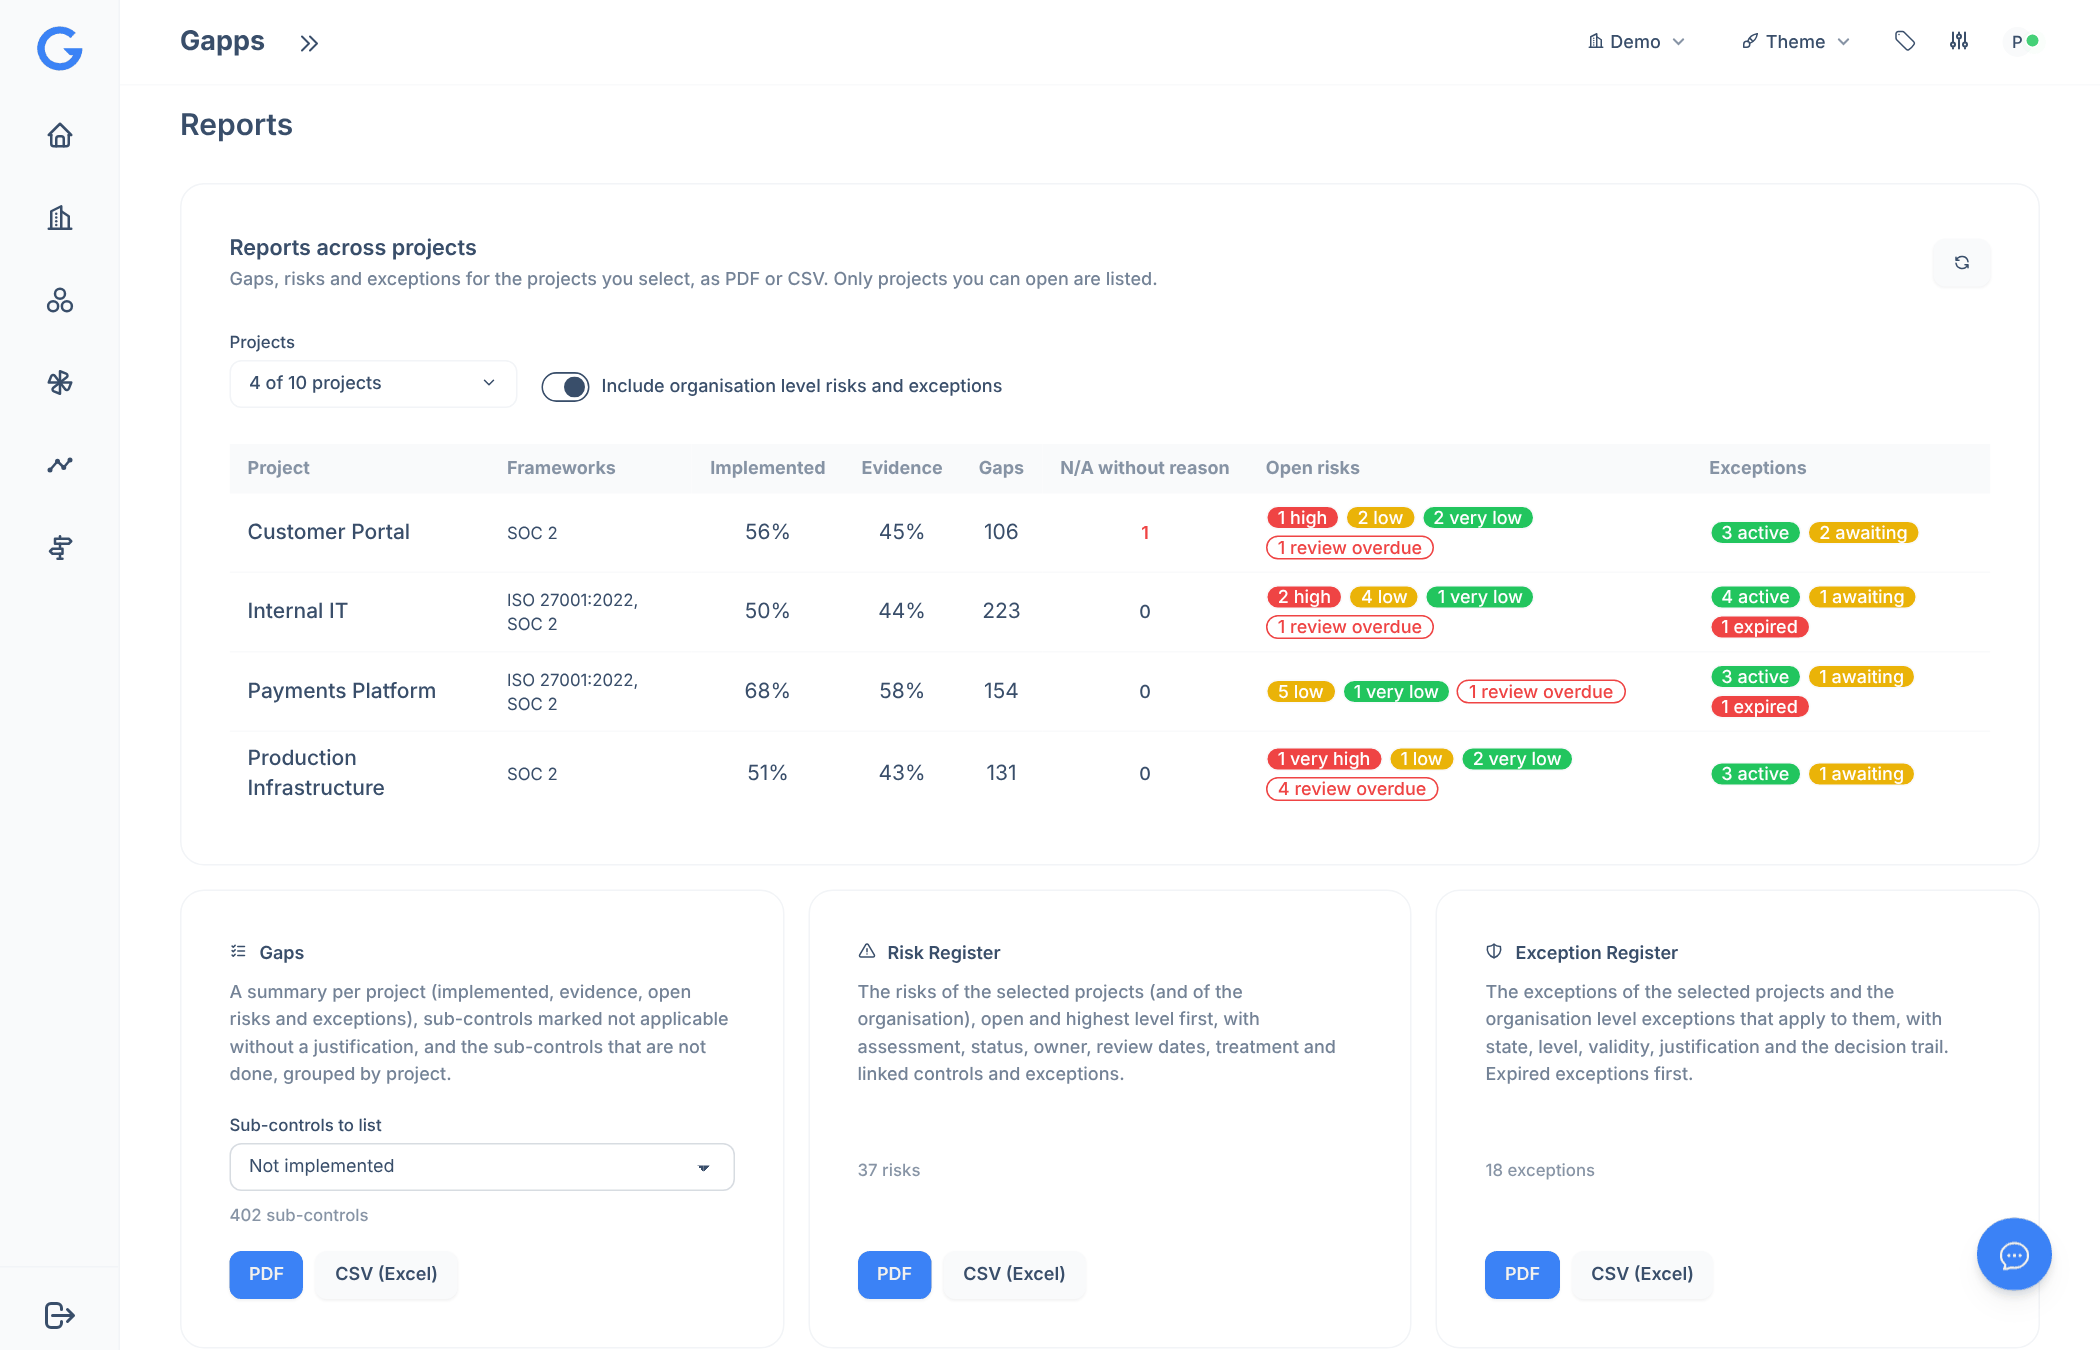
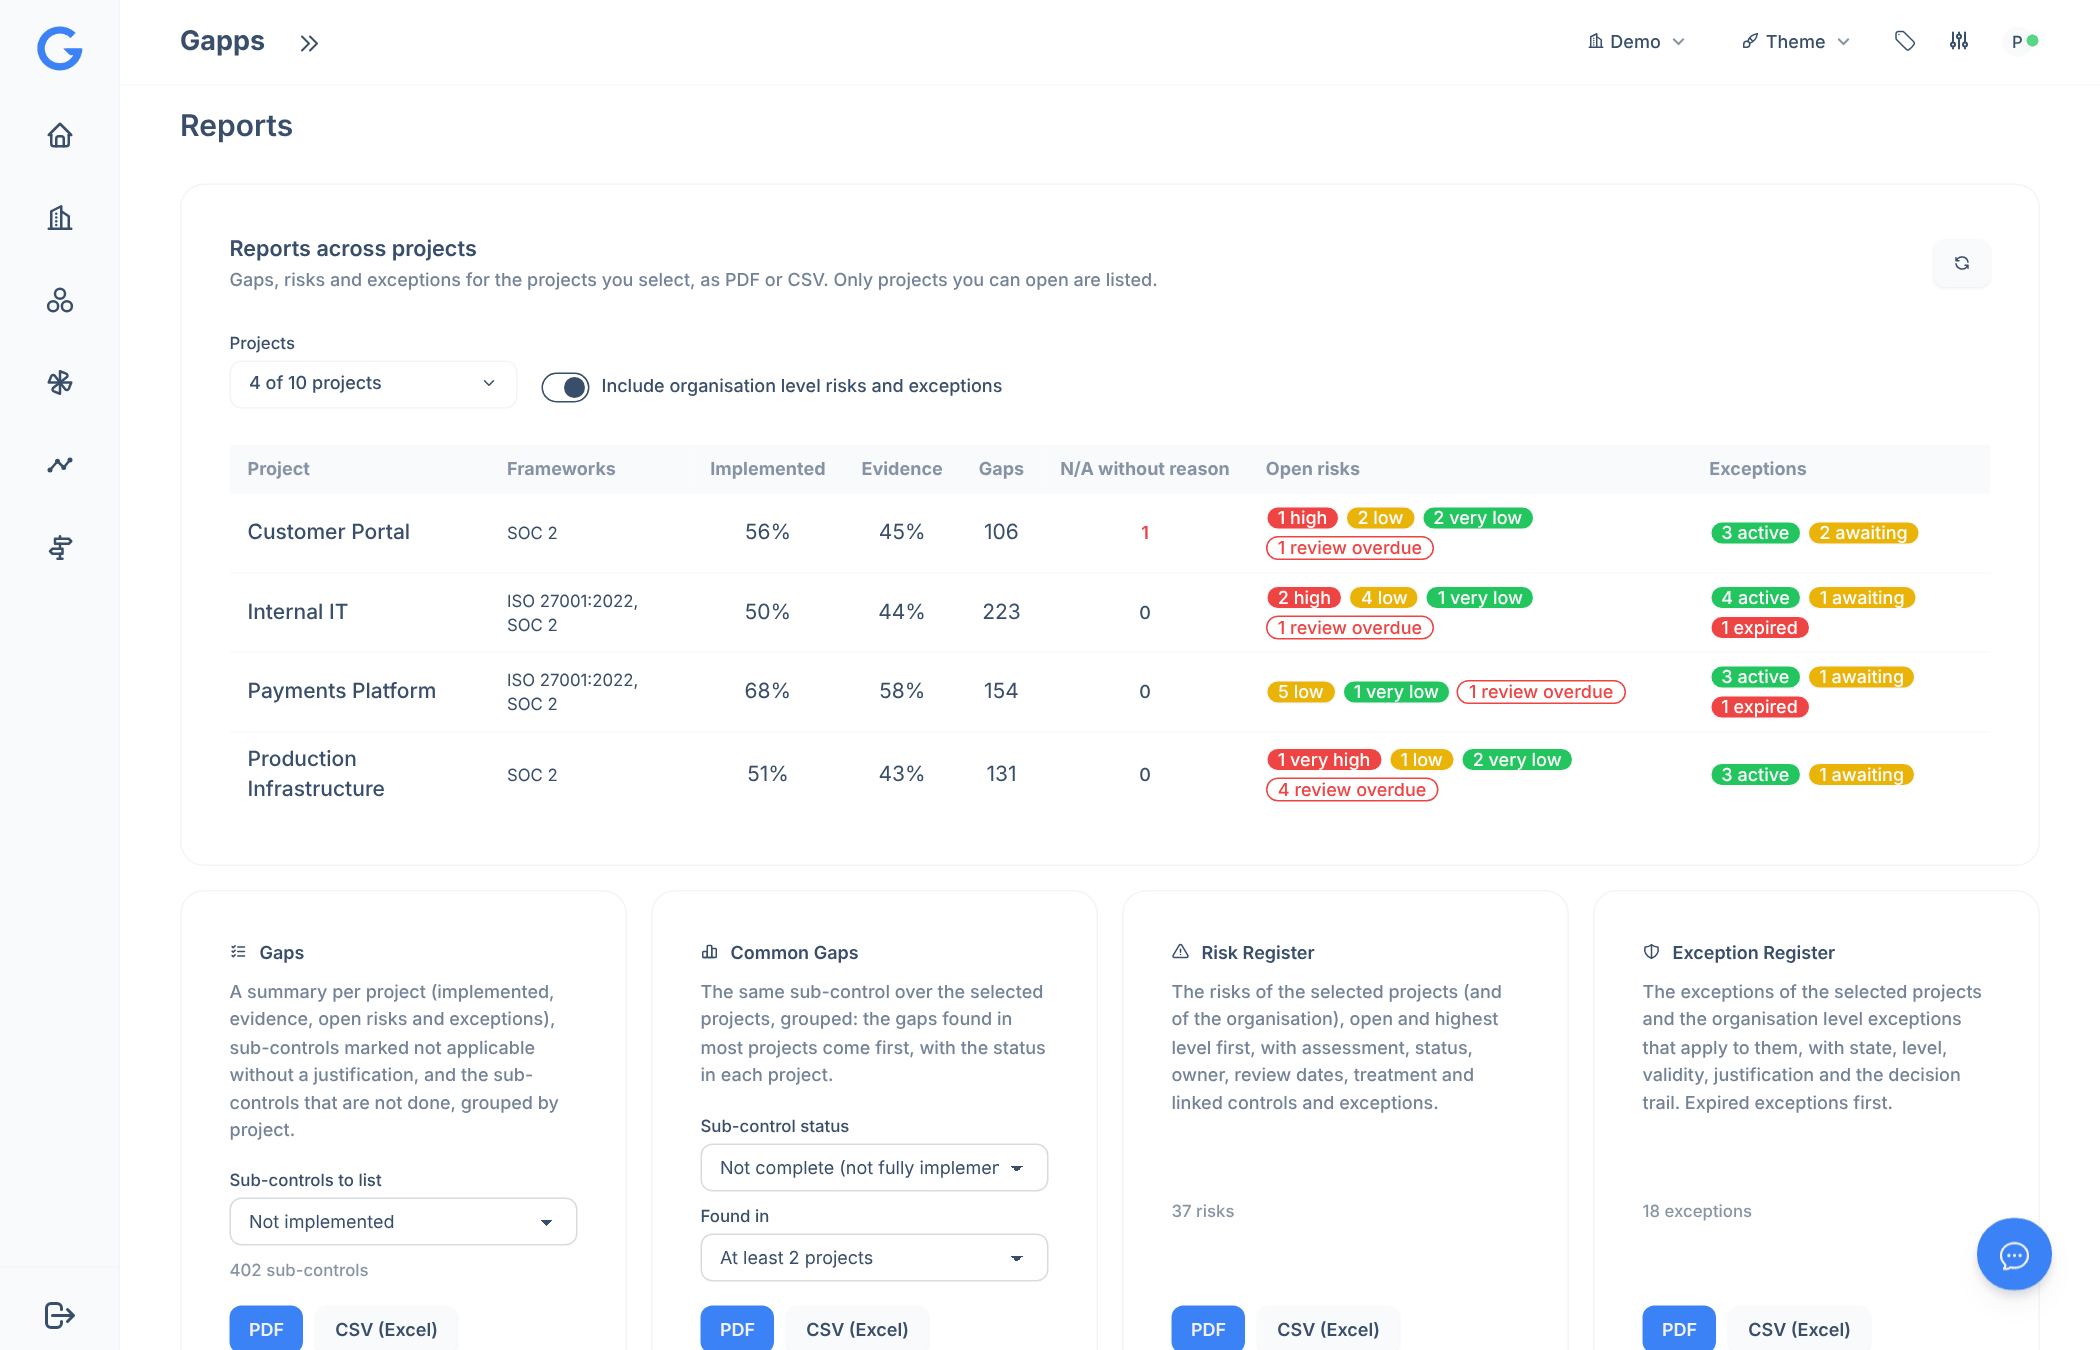
Reports: Common gaps report (same sub-control over the selected projects)
Uses the Gaps API with the selected projects, a status filter and
'found in at least N projects'; PDF and CSV. Gap reports no longer say
'+ organisation level' in the subtitle (it only applies to risks and
exceptions).

diff --git a/app/templates/org_reports.html b/app/templates/org_reports.html
@@ -108,7 +108,7 @@
 		</div>
 	</div>
 
-	<div class="col-span-6 grid grid-cols-3 gap-4" x-show="!loading && projects.length">
+	<div class="col-span-6 grid grid-cols-4 gap-4" x-show="!loading && projects.length">
 		<div class="card bg-base-100 border border-base-300">
 			<div class="card-body">
 				<h3 class="card-title text-base"><i class="ti ti-list-check"></i>Gaps</h3>
@@ -126,6 +126,33 @@
 				<div class="card-actions mt-2">
 					<button :disabled="reportBusy" @click="gapsReport('pdf')" class="btn btn-sm btn-primary">PDF</button>
 					<button :disabled="reportBusy" @click="gapsReport('csv')" class="btn btn-sm">CSV (Excel)</button>
+				</div>
+			</div>
+		</div>
+		<div class="card bg-base-100 border border-base-300">
+			<div class="card-body">
+				<h3 class="card-title text-base"><i class="ti ti-chart-bar"></i>Common Gaps</h3>
+				<p class="text-sm opacity-70">The same sub-control over the selected projects, grouped: the gaps found in most projects come first, with the status in each project.</p>
+				<label class="form-control mt-2">
+					<span class="label-text text-xs mb-1">Sub-control status</span>
+					<select x-model="commonStatus" class="select select-sm select-bordered">
+						<option value="not_complete">Not complete (not fully implemented or no evidence)</option>
+						<option value="not_implemented">Not implemented</option>
+						<option value="missing_evidence">Missing evidence</option>
+					</select>
+				</label>
+				<label class="form-control">
+					<span class="label-text text-xs mb-1">Found in</span>
+					<select x-model.number="commonMin" class="select select-sm select-bordered">
+						<option value="1">Any number of projects</option>
+						<option value="2">At least 2 projects</option>
+						<option value="3">At least 3 projects</option>
+						<option value="5">At least 5 projects</option>
+					</select>
+				</label>
+				<div class="card-actions mt-2">
+					<button :disabled="reportBusy" @click="commonGapsReport('pdf')" class="btn btn-sm btn-primary">PDF</button>
+					<button :disabled="reportBusy" @click="commonGapsReport('csv')" class="btn btn-sm">CSV (Excel)</button>
 				</div>
 			</div>
 		</div>
@@ -168,6 +195,8 @@ function orgReports() {
 		excluded: [],
 		includeOrg: true,
 		gapFilter: "not_implemented",
+		commonStatus: "not_complete",
+		commonMin: 2,
 		projects: [],
 		gaps: [],
 		withoutJustification: [],
@@ -285,10 +314,10 @@ function orgReports() {
 		rptScope() {
 			return this.tenantName || "Organisation"
 		},
-		rptSubtitle() {
+		rptSubtitle(withOrg = true) {
 			const n = this.projects.length
 			return this.rptScope() + "  |  " + (n === this.projectList.length ? "All projects" : n + " of " + this.projectList.length + " projects") +
-				" (" + n + ")" + (this.includeOrg ? " + organisation level" : "") + "  |  " + this.rptToday()
+				" (" + n + ")" + (withOrg && this.includeOrg ? " + organisation level" : "") + "  |  " + this.rptToday()
 		},
 		rptEmail(id) {
 			const r = this.risks.find(x => x.assignee === id)
@@ -299,6 +328,51 @@ function orgReports() {
 			if (this.gapFilter === "not_implemented") return this.gaps.filter(g => !g.implemented)
 			if (this.gapFilter === "missing_evidence") return this.gaps.filter(g => !g.evidence)
 			return this.gaps
+		},
+
+		// -- Common gaps: the same sub-control over the projects (the Gaps page as a report)
+		commonGapsReport(format) {
+			this.rptRun(async () => {
+				const params = new URLSearchParams({status: this.commonStatus, min_projects: this.commonMin})
+				if (this.excluded.length) params.set("exclude", this.excluded.join(","))
+				const data = await new Promise((resolve, reject) => request("GET",
+					`/api/v1/tenants/${this.tenantId()}/gaps?${params.toString()}`,
+					d => resolve(d), e => reject(new Error(e.message || "request failed"))))
+				const groups = data.groups
+				const statusText = i => i.implementation.replace(/_/g, " ") + (i.implementation === "partially_implemented" ? ` (${i.implemented}%)` : "") +
+					(i.has_evidence ? "" : ", no evidence")
+				const titles = {not_complete: "not complete", not_implemented: "not implemented", missing_evidence: "missing evidence"}
+				if (format === "csv") {
+					this.rptCsv(this.rptFileName("common-gaps", "csv"),
+						["Framework", "Ref", "Sub-control", "Control", "Projects matching", "Projects with the sub-control", "Project",
+						 "Implementation", "Implemented %", "Evidence", "Owner", "Open risks", "Ticket"],
+						groups.flatMap(g => g.items.map(i => [g.framework, g.ref_code, g.name, `${g.control_ref_code} ${g.control}`,
+							g.gaps, g.projects, i.project, i.implementation.replace(/_/g, " "), i.implemented, i.has_evidence ? "yes" : "no",
+							i.owner, i.open_risks, i.ticket_number])))
+					return
+				}
+				const ctx = await this.rptStart("Common Gaps", this.rptSubtitle(false), true)
+				const t = data.totals
+				this.rptStats(ctx, [
+					["Projects", data.projects],
+					["Sub-controls listed", groups.length],
+					["In every project", groups.filter(g => g.gaps === data.projects).length],
+					["Not implemented", t.not_implemented, t.not_implemented ? [220, 38, 38] : null],
+					["Partially implemented", t.partially_implemented, [202, 138, 4]],
+					["Missing evidence", t.missing_evidence, t.missing_evidence ? [202, 138, 4] : null],
+				])
+				this.rptHeading(ctx, "Sub-controls " + titles[this.commonStatus] + (this.commonMin > 1 ? ` in at least ${this.commonMin} projects` : ""),
+					"The same sub-control in several projects is one row; the ones found in most projects come first. A gap shared by " +
+					"many projects is usually best solved once, centrally.")
+				this.rptTable(ctx, ["Sub-control", "Framework", "Projects", "Status per project"],
+					groups.map(g => {
+						const name = g.name.length > 150 ? g.name.slice(0, 147).trim() + "..." : g.name
+						return [`${g.ref_code} ${name}`, this.fwLabel(g.framework), `${g.gaps} of ${g.projects}`,
+							g.items.map(i => `${i.project}: ${statusText(i)}${i.open_risks ? ", " + i.open_risks + " open risk(s)" : ""}`).join("\n")]
+					}),
+					{columnStyles: {0: {cellWidth: 95}, 1: {cellWidth: 32}, 2: {cellWidth: 20, halign: "center"}, 3: {cellWidth: 120}}})
+				this.rptFinish(ctx, this.rptFileName("common-gaps", "pdf"))
+			})
 		},
 
 		// -- Gaps report ------------------------------------------------------------------
@@ -318,7 +392,7 @@ function orgReports() {
 				}
 				const sum = key => this.projects.reduce((t, p) => t + (p[key] || 0), 0)
 				const applicable = sum("applicable")
-				const ctx = await this.rptStart("Gap Report", this.rptSubtitle(), true)
+				const ctx = await this.rptStart("Gap Report", this.rptSubtitle(false), true)
 				this.rptStats(ctx, [
 					["Projects", this.projects.length],
 					["Applicable sub-controls", applicable],

diff --git a/README.md b/README.md
@@ -85,6 +85,8 @@ Gapps is an Security compliance platform that makes it easy to track your progre
   per project shows implemented, evidence, gaps, open risks and exceptions
 - Gap report: a summary per project, sub-controls excluded without a justification and the
   sub-controls that are not done (not implemented / not complete / missing evidence), grouped by project
+- Common gaps: the same sub-control over the selected projects as one row, the gaps found in most
+  projects first, with the status in each project (the Gaps page as a report)
 - Risk register and exception register over the selected projects
 - Everybody reports on the projects they can open; the CISO on every project
 
